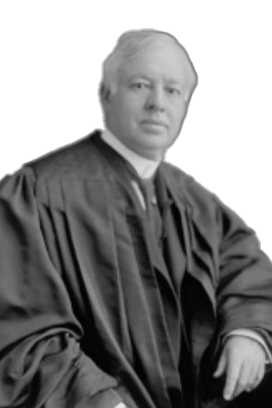
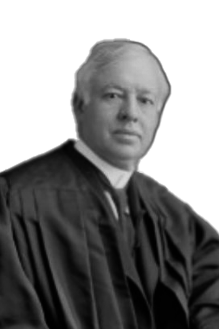
enecylopedia with background version

diff --git a/encyclopedia/encyclopedia.css b/encyclopedia/encyclopedia.css
@@ -92,7 +92,7 @@ body {
 }
 .cards.portrait-mode {
   grid-template-columns: repeat(auto-fill, minmax(60px, 1fr));
-  gap: -20px 6px;
+  gap: 2px 5px;
   padding-left: 0px;
 }
 .portrait-large {
